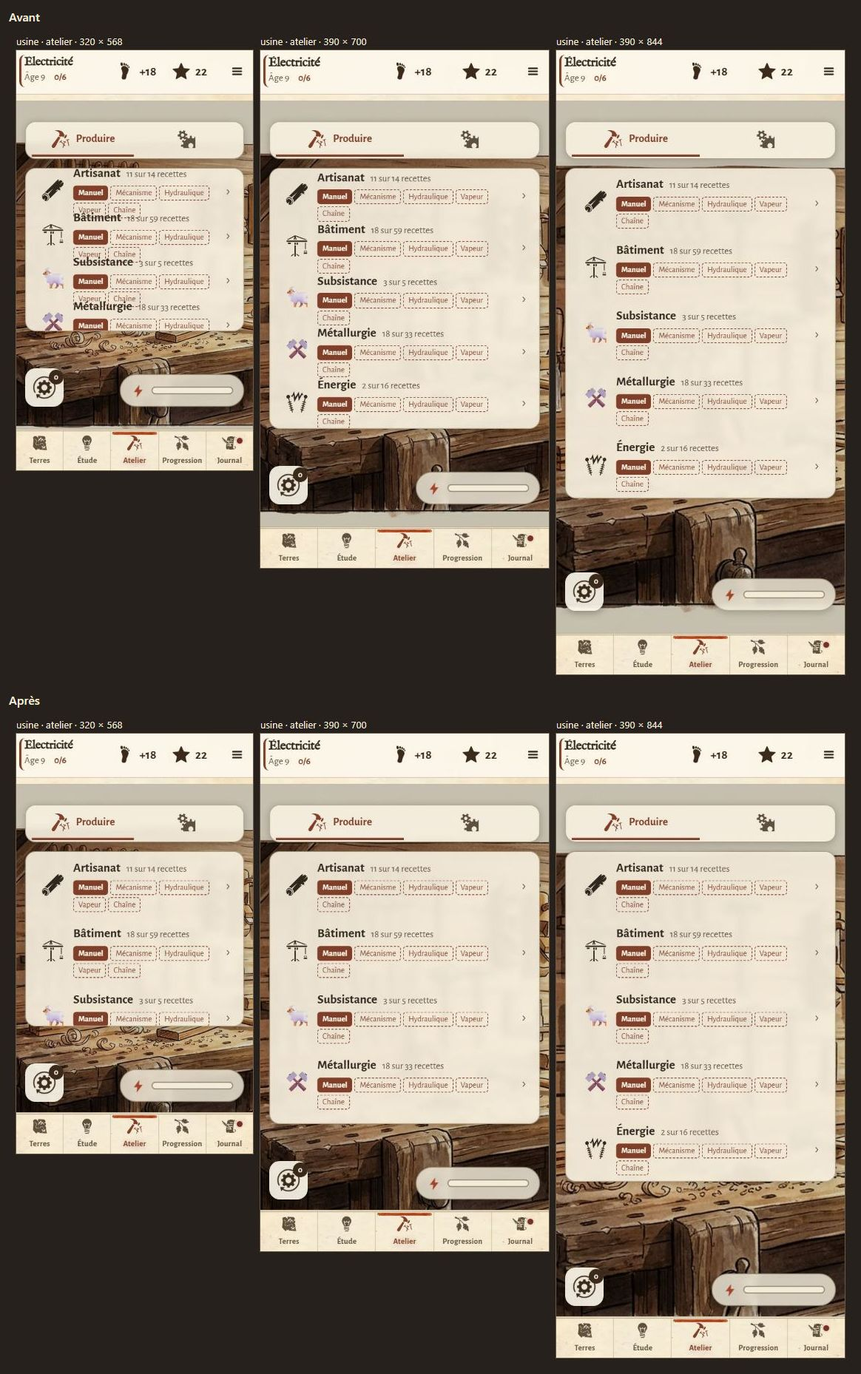
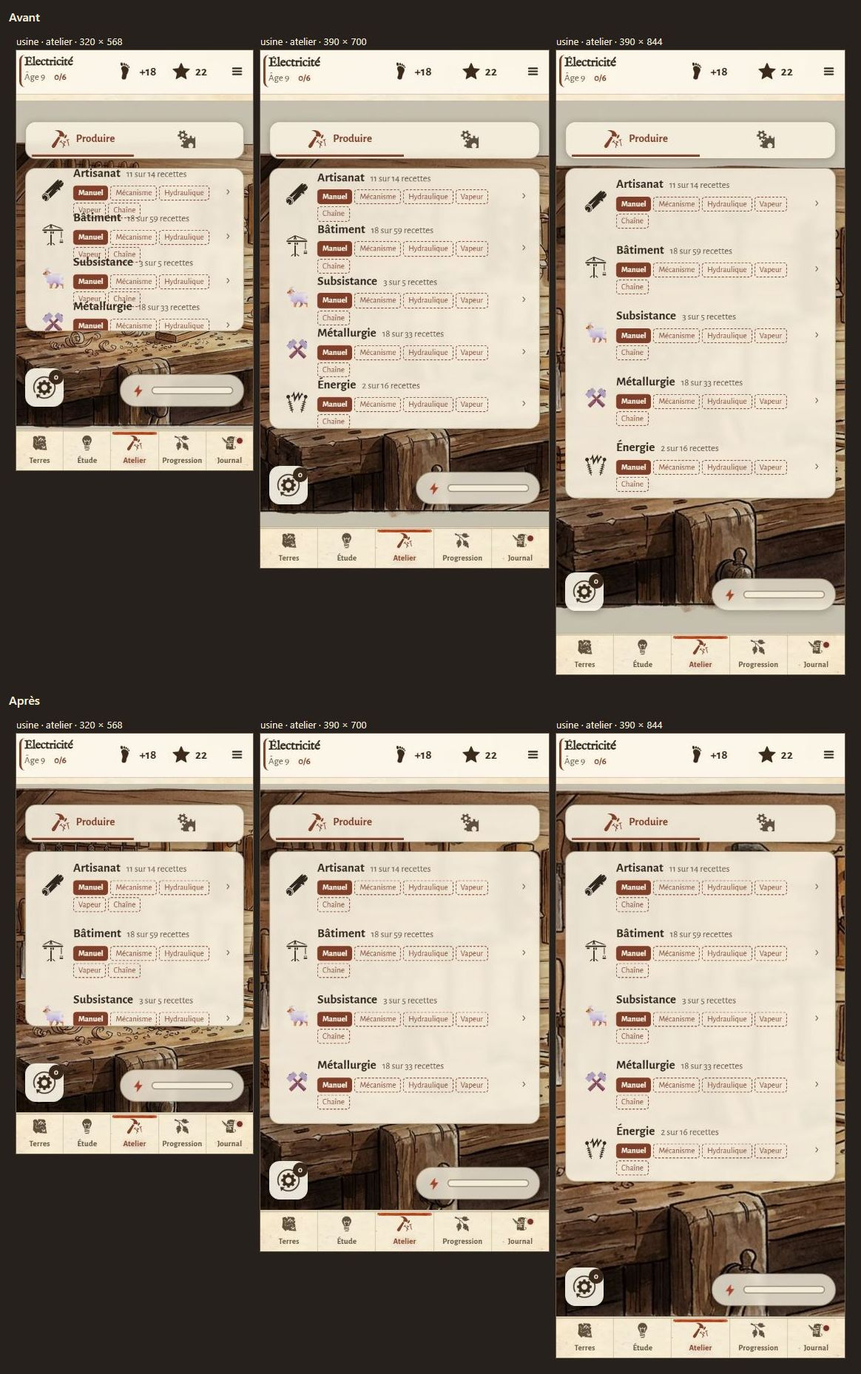
Intégration du chantier : test des écrans fixes, fond de l'Atelier recadré, compte rendu et rapport « Après correction »
- tools/test-ecrans-fixes-ui.js : 146 contrôles (métier, liste des métiers, Carnet, tenue du défilement, réserve basse).
- Fond de l'Atelier recadré sur téléphone (marge de papier de l'aquarelle), le médaillon s'efface sous 96 px.
- docs : rendu-integration.md, T6 mis à jour avec le tri des 16 tests rouges, section « Après correction » de l'audit.

Changed region(s): [[0.0, 0.5619, 0.9897, 0.9677], [0.9278, 0.9365, 0.9897, 0.9677], [0.4948, 0.8741, 0.5258, 0.9053]]

diff --git a/tools/test-ecrans-fixes-ui.js b/tools/test-ecrans-fixes-ui.js
@@ -1,0 +1,103 @@
+/* Écrans fixes, suite (0.67.0) : ce que l'intégration du chantier « un jeu, pas un site » a ajouté.
+ *  - page d'un métier : rien ne défile, l'objet choisi s'affiche en grand quand la place existe, une seule barre d'actions ;
+ *  - liste des métiers : le dernier métier s'atteint en faisant glisser la liste ;
+ *  - Carnet et Journal : la vue ne défile pas, la liste glisse ;
+ *  - un cadre qui glisse garde sa place après un rendu ;
+ *  - la réserve basse des vues est la hauteur réelle de la barre d'onglets.
+ * Playwright requis. PW et CHROMIUM facultatifs. */
+"use strict";
+const fs = require("fs"), path = require("path"), http = require("http"), assert = require("assert/strict");
+const { chromium } = require(process.env.PW || "playwright"), D = require("../js/data"), Core = require("../js/engine");
+const ROOT = path.resolve(__dirname, ".."), MIME = { ".html": "text/html", ".js": "text/javascript", ".css": "text/css", ".svg": "image/svg+xml", ".webp": "image/webp", ".woff2": "font/woff2" };
+const server = http.createServer((req, res) => {
+  const file = path.resolve(ROOT, "." + new URL(req.url, "http://localhost").pathname.replace(/\/$/, "/index.html"));
+  if (!file.startsWith(ROOT + path.sep)) return res.writeHead(403).end();
+  fs.readFile(file, (e, b) => { if (e) return res.writeHead(404).end(); res.setHeader("Content-Type", MIME[path.extname(file)] || "application/octet-stream"); res.end(b); });
+});
+let browser, checks = 0;
+const ok = (v, m) => { assert.ok(v, m); checks++; };
+const TAILLES = [[320, 568], [360, 640], [390, 700], [390, 844], [430, 932]];
+function partie(avancee) {
+  const E = Core.createEngine();
+  if (avancee) E.load(fs.readFileSync(path.join(ROOT, "tools/fixtures/save-v5-age8-usine.json"), "utf8"));
+  const s = E.state;
+  s.introSeen = true; s.flags.ver = D.VERSION; s.t = Date.now();
+  Object.assign(s.settings, { tuto: false, sound: false, visiteurs: false });
+  if (!avancee) {
+    s.age = 4; s.cycle = 2; s.meta.forcedDone = true; s.stats.crafts = 12;
+    for (const z of D.ZONES) { s.zones[z.id] = true; if (z.id === "desert") break; }
+    for (const [id, it] of Object.entries(D.ITEMS)) {
+      if (it.t === "res" && it.a <= 4) { s.seen[id] = true; s.inv[id] = 40; }
+      if (it.r && it.a <= 4 && !it.sec && !it.path) { s.known[id] = true; s.made[id] = 1; }
+    }
+  }
+  E.recalc(); return E.serialize();
+}
+const defile = () => {
+  const v = document.querySelector(".view.on"), vs = document.querySelector("#views");
+  return Math.max(v.scrollHeight - v.clientHeight, vs.scrollHeight - vs.clientHeight, document.scrollingElement.scrollHeight - innerHeight);
+};
+async function run() {
+  await new Promise(r => server.listen(0, "127.0.0.1", r));
+  browser = await chromium.launch(process.env.CHROMIUM ? { executablePath: process.env.CHROMIUM } : {});
+  const url = "http://127.0.0.1:" + server.address().port + "/index.html";
+  for (const avancee of [false, true]) for (const [w, h] of TAILLES) {
+    const ctx = await browser.newContext({ viewport: { width: w, height: h }, hasTouch: true, isMobile: true, serviceWorkers: "block", reducedMotion: "reduce" }), p = await ctx.newPage(), errors = [];
+    p.on("pageerror", e => errors.push(e.message));
+    await p.addInitScript(r => { localStorage.setItem("eclat.save.v1", r); localStorage.setItem("eclat.style.carnet-defaut", "1"); }, partie(avancee));
+    await p.goto(url); await p.waitForFunction(() => !!window.__eclat);
+    for (let i = 0; i < 6; i++) { await p.waitForTimeout(80); await p.evaluate(() => window.__eclat.closeModal()); }
+    const tag = w + "x" + h + (avancee ? " · partie avancée" : " · âge du Bronze") + " · ";
+    const onglet = async t => { await p.locator('#tabs [data-tab="' + t + '"]').click(); await p.waitForTimeout(450); };
+
+    // la réserve basse est la hauteur de la barre d'onglets
+    const nav = await p.evaluate(() => ({ nav: parseFloat(getComputedStyle(document.documentElement).getPropertyValue("--nav")), tabs: document.getElementById("tabs").getBoundingClientRect().height }));
+    ok(Math.abs(nav.nav - nav.tabs) <= 1, tag + "--nav (" + nav.nav + ") vaut la hauteur de la barre d'onglets (" + nav.tabs + ")");
+
+    // liste des métiers : tout s'atteint
+    await p.evaluate(() => { const g = window.__eclat; g.U.atelierSel = null; g.U.prodSel = null; });
+    await onglet("atelier");
+    ok(await p.evaluate(defile) <= 1, tag + "la liste des métiers ne fait pas défiler la vue");
+    const dernier = await p.evaluate(() => {
+      const l = document.querySelector("#v-atelier .atel-liste"), c = l.lastElementChild; l.scrollTop = l.scrollHeight;
+      const a = l.getBoundingClientRect(), b = c.getBoundingClientRect(); return b.bottom <= a.bottom + 1 && b.top >= a.top - 1;
+    });
+    ok(dernier, tag + "le dernier métier s'atteint");
+
+    // page d'un métier
+    await p.evaluate(() => { const g = window.__eclat; g.U.atelierSel = "artisanat"; g.U.prodSel = null; g.render(true); });
+    await p.waitForTimeout(350);
+    const m = await p.evaluate(() => {
+      const r = s => { const e = document.querySelector(s); if (!e) return null; const b = e.getBoundingClientRect(); return { haut: b.top, bas: b.bottom, h: getComputedStyle(e).display === "none" ? 0 : b.height, d: e.scrollHeight - e.clientHeight }; };
+      const qui = document.querySelector("#v-atelier .prod-qui");
+      return { milieu: r("#v-atelier .prod-milieu"), scene: r("#v-atelier .prod-scene > .ic"), qty: r("#v-atelier .prod-qty"), qui: r("#v-atelier .prod-qui"), tabs: r("#tabs"),
+        rangees: new Set([...qui.querySelectorAll("button")].map(b => Math.round(b.getBoundingClientRect().top / 30))).size,
+        petits: [...qui.querySelectorAll("button")].filter(b => { const x = b.getBoundingClientRect(); return x.width < 43.5 || x.height < 43.5; }).length,
+        raccourcis: qui.querySelectorAll(".prod-raccourcis > button").length };
+    });
+    ok(await p.evaluate(defile) <= 1, tag + "la page d'un métier ne fait pas défiler la vue");
+    ok(m.milieu.d <= 1, tag + "le milieu de la page d'un métier ne défile pas (" + m.milieu.d + " px)");
+    ok(m.qty.bas <= m.qui.haut + 1, tag + "les quantités sont au-dessus de la barre d'actions");
+    ok(m.qui.bas <= m.tabs.haut + 1, tag + "la barre d'actions est au-dessus des onglets");
+    ok(m.rangees === 1, tag + "la barre d'actions tient sur une rangée");
+    ok(m.petits === 0, tag + "les cibles de la barre d'actions font 44 px");
+    ok(m.raccourcis === 3, tag + "les trois feuilles du métier sont dans la barre d'actions");
+    if (h >= 844) ok(m.scene && m.scene.h >= 96, tag + "l'objet choisi s'affiche en grand");
+    if (h <= 568) ok(!m.scene || m.scene.h === 0, tag + "l'objet en grand s'efface quand la place manque");
+
+    // un cadre qui glisse garde sa place après un rendu
+    const garde = await p.evaluate(() => { const c = document.querySelector("#v-atelier .prod-choix"); c.scrollLeft = 120; const avant = c.scrollLeft; window.__eclat.render(true); return [avant, document.querySelector("#v-atelier .prod-choix").scrollLeft]; });
+    ok(garde[0] === 0 || Math.abs(garde[0] - garde[1]) <= 1, tag + "la rangée des recettes garde sa place après un rendu (" + garde.join(" → ") + ")");
+
+    // Carnet ou Journal : la vue ne défile pas, la liste glisse
+    await onglet("journal");
+    ok(await p.evaluate(defile) <= 1, tag + "le Carnet ne fait pas défiler la vue");
+    const liste = await p.evaluate(() => { const l = document.querySelector("#v-carnet.on #clist, #v-journal.on .journal-corps"); return l ? getComputedStyle(l).overflowY : ""; });
+    ok(liste === "auto", tag + "la liste du Carnet glisse dans son cadre");
+
+    ok(!errors.length, tag + "erreurs JS " + errors.join(";"));
+    await ctx.close();
+  }
+  console.log(checks + " contrôles des écrans fixes (métier, Carnet, listes) réussis.");
+}
+run().catch(e => { console.error(e); process.exitCode = 1; }).finally(async () => { if (browser) await browser.close(); server.close(); });

diff --git a/css/sobriete.css b/css/sobriete.css
@@ -251,7 +251,9 @@ html[data-style-mode="vivant"] #app #v-domaine .terres .terre-nav:disabled{opaci
 #v-labo .ae-metiers{background:rgb(244 236 218 / .86);border-radius:14px;margin:6px 0;padding:2px 6px;-webkit-backdrop-filter:blur(3px);backdrop-filter:blur(3px)}
 
 /* Atelier : même établi que le Labo ; Progression : le ciel de la Mémoire. Les blocs se posent dessus en papier translucide. */
-#v-atelier.view{background:linear-gradient(rgba(20,14,8,.18),rgba(20,14,8,.18)),url("../assets/fonds/atelier.webp") center top/auto 106% no-repeat!important}
+#v-atelier.view{background:linear-gradient(rgba(20,14,8,.18),rgba(20,14,8,.18)),url("../assets/fonds/atelier.webp") var(--fond-pos,center)/var(--fond-taille,cover) no-repeat!important}
+/* téléphone : l'aquarelle a une marge de papier en haut et en bas, on la recadre */
+@media (max-width:680px){#v-atelier.view{--fond-pos:50% 62%;--fond-taille:auto 120%}}
 #v-arbre.view{background:linear-gradient(rgba(8,12,24,.12),rgba(8,12,24,.12)),url("../assets/fonds/progression.webp") center/cover no-repeat!important}
 #v-atelier .atl-page,#v-arbre .arb-page,#v-arbre .prog-corps{background:transparent!important}
 #v-atelier .atl-page>:not(.hidden),#v-arbre .prog-corps>:not(.hidden){background:rgb(244 236 218 / .86);border-radius:14px;-webkit-backdrop-filter:blur(3px);backdrop-filter:blur(3px)}
@@ -273,12 +275,12 @@ html[data-style-mode="vivant"] #app #v-domaine .terres .terre-nav:disabled{opaci
 #v-atelier .prod-qui > button[data-prod="apprenti"] { flex: 0 0 48px; }
 @media (max-width: 340px) { #v-atelier .prod-qui > button[data-prod="main"] > .gi { display: none; } #v-atelier .prod-qui > button[data-prod="apprenti"] { flex-basis: 44px; } }
 /* l'objet choisi, en grand, posé sur l'établi : il prend la place qui reste et s'efface quand elle manque */
-#v-atelier .atl-metier-page > .prod-milieu { display: flex; flex-direction: column; container-type: size; padding-inline: 0; background: none; -webkit-backdrop-filter: none; backdrop-filter: none; }
+#v-atelier .atl-metier-page > .prod-milieu { display: flex; flex-direction: column; padding-inline: 0; background: none; -webkit-backdrop-filter: none; backdrop-filter: none; }
 #v-atelier .prod-milieu > .prod-fiche { margin-top: auto; }
 #v-atelier .prod-scene { flex: 1 1 0; min-height: 0; display: grid; place-items: center; overflow: hidden; container-type: size; }
 #v-atelier .prod-scene > .ic { position: relative; width: min(100cqh - 20px, 176px); height: min(100cqh - 20px, 176px); padding: 0; border-radius: 50%; background: var(--rond-papier, #f4ecda) center / 100% 100% no-repeat; filter: drop-shadow(0 8px 9px rgb(20 14 8 / .55)); }
 #v-atelier .prod-scene > .ic > :is(img, svg) { position: absolute; inset: 14%; width: 72%; height: 72%; object-fit: contain; }
-@container (max-height: 263px) { #v-atelier .prod-scene { display: none; } }
+@container (max-height: 95px) { #v-atelier .prod-scene > .ic { display: none; } }
 #v-atelier .prod-scene.frappe > .ic { animation: prod-frappe .32s cubic-bezier(.2,.9,.3,1.3); }
 @keyframes prod-frappe { 0% { transform: scale(.8) rotate(-5deg); } 60% { transform: scale(1.08) rotate(1deg); } }
 @media (prefers-reduced-motion: reduce) { #v-atelier .prod-scene.frappe > .ic { animation: none; } }

diff --git a/sw.js b/sw.js
@@ -3,7 +3,7 @@
  * arrière-plan puis attend que le joueur l’accepte (bandeau dans le jeu), ce qui
  * lui laisse le temps de télécharger sa sauvegarde.
  * BUILD est recalculé par `node tools/build.js` : ne pas le modifier à la main. */
-const BUILD = "d9bec516f6";
+const BUILD = "325831c020";
 const CACHE = "eclat-" + BUILD;
 const LEGACY = "eclat-v1"; // première version : « réseau d’abord », sans attente
 const FILES = [

diff --git a/docs/chantier-interface/T6-tests.md b/docs/chantier-interface/T6-tests.md
@@ -3,21 +3,26 @@
 Lis d'abord `docs/chantier-interface/MAITRE.md` : il porte le but, les règles communes et la forme du compte rendu. Réponds en français.
 
 ## Pourquoi
-`npm test` ne lance aucun test de navigateur. Il existe 32 fichiers `tools/test-*-ui.js`, lancés à la main un par un, et cinq sont rouges depuis avant ce chantier. Tant qu'ils le sont, personne ne sait si un changement casse quelque chose.
+`npm test` ne lance aucun test de navigateur. Seize des trente-six tests d'interface sont rouges depuis avant ce chantier. Tant qu'ils le sont, personne ne sait si un changement casse quelque chose.
 
-## Faits vérifiés (11 novembre 2026)
-- Rouges : `test-decouvertes-carnet-ui` (« 320 première planche révélée »), `test-age-os-carnet-ui` et `test-illustrations-raccord-ui` (délai dépassé sur `scrollIntoViewIfNeeded`), `test-paysages-carnet-ui` (« 320/false/lisiere vignette présente »), `test-monde-production-ui` (« monde intégré »).
-- Verts : `test-ux`, `test-terres-fixe-ui`, `test-territoires-ui`, `test-sentier-chantier-ui`, `test-carnet-mobile-ui`, `test-atlas-ui`, `test-friction-ui`, `test-juice-ui`.
-- Les autres n'ont pas été lancés ce jour-là.
-- Piste : sur téléphone, les scènes de chantier (`.sentier-chantier`, `.passerelle-chantier`) et le paysage du carnet sont masqués exprès depuis la refonte sobre. Un test qui attend de les voir à 320 px est sans doute périmé.
+## Faits vérifiés (12 novembre 2026, version 0.67.0)
+- `npm run test:ui` existe (`tools/test-ui.js`) : il lance les 36 tests de navigateur l'un après l'autre, continue après un échec et finit par un tableau. `npm run test:ui -- carnet fiches` n'en lance qu'une partie. `PW=<chemin>/node_modules/playwright` sert aussi aux tests qui écrivent `require("playwright")`.
+- 20 verts, 16 rouges. Les rouges l'étaient déjà avant le chantier : aucun ne vient des tâches T1 à T5 ni de l'intégration.
+- Les 16 rouges, avec leur première erreur :
+  - `test-appareil-ui` : « la touche 2 ouvre la Carte » (les raccourcis d'onglets ont changé).
+  - `test-archives-ui`, et sans doute `test-assistance-ui`, `test-comptes-ui`, `test-filtre-decouverte-ui`, `test-mode-test-ui` : délai dépassé sur un clic de `#atlasToggle`, le bouton d'aspect qui n'est plus visible.
+  - `test-age-os-carnet-ui`, `test-atelier-dessine-ui`, `test-illustrations-raccord-ui` : délai dépassé (une image chargée à la demande hors de la zone visible, ou `scrollIntoViewIfNeeded`).
+  - `test-decouvertes-carnet-ui` : « 320 première planche révélée ». `test-paysages-carnet-ui` : « 320/false/lisiere vignette présente ». `test-retours-ui` : « 320/false : décor au bord supérieur ». `test-monde-production-ui` : « monde intégré ».
+  - `test-progression-ui` : à lire. `test-stockage-ui` : « deux pages : la seconde attend, n'écrit rien », 187 s.
+  - `test-browser-qol` : ne trouvait pas Playwright ; à relancer avec la nouvelle commande.
+- Piste : sur téléphone, les scènes de chantier (`.sentier-chantier`, `.passerelle-chantier`) et le paysage du carnet sont masqués exprès depuis la refonte sobre, et le style Atlas n'a plus de bouton. Un test qui les attend est sans doute périmé.
 
 ## À faire
-1. Lance les 32 fichiers et dresse le tableau : vert ou rouge, et la cause en une ligne.
-2. Pour chaque rouge, tranche : le test est périmé (l'interface a changé exprès) ou le jeu a un défaut. Appuie-toi sur le `git log` du fichier testé.
-3. Test périmé : mets-le à jour pour qu'il vérifie le comportement d'aujourd'hui, sans le vider de son sens. Défaut du jeu : ne corrige rien, décris-le avec les pas pour le revoir.
-4. Ajoute `npm run test:ui`, qui lance tous les tests d'interface l'un après l'autre, continue après un échec et finit par un tableau, avec un code de sortie non nul s'il reste un rouge.
-5. Ne touche à aucun fichier du jeu (`js/`, `css/`, `index.html`).
+1. Pour chaque rouge, tranche : le test est périmé (l'interface a changé exprès) ou le jeu a un défaut. Appuie-toi sur le `git log` du fichier testé.
+2. Test périmé : mets-le à jour pour qu'il vérifie le comportement d'aujourd'hui, sans le vider de son sens. S'il ne vérifie plus rien qui existe, propose sa suppression dans ton compte rendu, ne le supprime pas.
+3. Défaut du jeu : ne corrige rien, décris-le avec les pas pour le revoir.
+4. Ne touche à aucun fichier du jeu (`js/`, `css/`, `index.html`) ni à `tools/test-ui.js`.
 
 ## Fini quand
-- `npm run test:ui` existe et son tableau est dans ton compte rendu.
+- Le tableau de `npm run test:ui` est dans ton compte rendu.
 - Chaque test encore rouge l'est pour un défaut du jeu, décrit.

diff --git a/docs/chantier-interface/rendu-integration.md b/docs/chantier-interface/rendu-integration.md
@@ -1,0 +1,55 @@
+# Intégration · recette de T1 à T5, corrections, version 0.67.0
+
+**État** : fait. Branche `chantier/integration-0-67`, fusionnée dans `claude/sobriete-coherence`. Rien n'est parti sur `alpha` ni sur `main`.
+
+## Recette des cinq tâches
+
+Les cinq branches étaient déjà fusionnées. `npm test` vert, aucun défilement de page sur les Terres, l'Étude, l'Atelier et les fiches aux cinq tailles : les comptes rendus disent vrai. Les compteurs de `!important` n'ont pas monté (107 et 148). Un écart au périmètre : T4 a rangé ses règles dans `css/sobriete.css` et pas dans `css/labo.css`, sans dégât.
+
+Ce que les captures ont montré, et qui est corrigé ici :
+
+| Défaut | Cause | Correction |
+|---|---|---|
+| Bande grise au-dessus des onglets, feuilles qui s'arrêtent 16 px trop haut | `--nav` valait 72 px pour une barre de 56 px | `--nav` suit la barre : 16 px rendus à chaque vue |
+| Fiche presque vide à 320 × 568 (150 px pour le contenu) | épingles sur leur propre ligne, pied sur trois rangées | épingles dans la rangée des pages, pied sur une ligne, un seul bouton principal |
+| Page d'un métier creuse sur grand téléphone, rangée de raccourcis flottante | le milieu prenait la place sans rien y mettre | l'objet choisi en médaillon, une seule barre d'actions |
+| Quantités cachées à 320 × 568 sur la page d'un métier | milieu de 97 px pour une fiche de 162 px | la rangée de raccourcis rend sa place : plus de défilement |
+| Derniers métiers coupés et inatteignables en partie avancée | `.atel-liste` en `overflow: hidden` | la liste glisse dans son cadre |
+| Une liste revenait en haut après chaque appui | la vue est redessinée en entier | les cadres qui glissent gardent leur place (`js/ui.js`) |
+| Carnet et Journal défilaient en entier (888 px à 320 × 568) | aucune tâche ne les couvrait | onglets, recherche et âges fixes, la liste glisse |
+| Terres à 320 px : l'extracteur passait sous l'icône du gisement | ligne trop large de 2 px | la ligne tient sur une rangée |
+| « Fermer » en mot sur deux feuilles, en croix sur les deux autres | | la croix partout |
+
+## Ce qui change pour le joueur
+
+Plus aucune vue ne défile : chaque écran est un cadre fixe, avec ses actions en bas. À l'Atelier, l'objet à fabriquer est posé en grand sur l'établi et il réagit quand on appuie sur Fabriquer.
+
+## Mesures (défilement de la page, puis de la zone du milieu)
+
+| Écran | 320 × 568 | 360 × 640 | 390 × 700 | 390 × 844 | 430 × 932 |
+|---|---|---|---|---|---|
+| Page d'un métier, avant | 0, milieu 76 | 0, milieu 8 | 0, 0 | 0, 0 | 0, 0 |
+| Page d'un métier, après | 0, 0 | 0, 0 | 0, 0 | 0, 0 | 0, 0 |
+| Carnet, avant | 888 | | 701 | 557 | |
+| Carnet, après | 0 | 0 | 0 | 0 | 0 |
+| Fiche du Manche, page Objet, avant | 321 | | 43 | 0 | |
+| Fiche du Manche, page Objet, après | 167 | | 0 | 0 | |
+
+## Tests
+
+- `npm test` : vert en 0.67.0.
+- `node tools/test-ecrans-fixes-ui.js` (nouveau) : « 146 contrôles des écrans fixes (métier, Carnet, listes) réussis. » Lancé sur la branche d'avant, il échoue dès le premier contrôle.
+- `npm run test:ui` (nouveau, tous les tests de navigateur) : 20 verts et 16 rouges sur 36. Les 16 rouges sont les mêmes qu'avant l'intégration, lancés sur une copie de la branche de départ : ce sont des tests qui décrivent une interface plus ancienne (liste et première erreur dans `T6-tests.md`). `test-fiches-ui` : « 1142 contrôles », `test-terres-fixe-ui` : « 264 contrôles », `test-etude-fixe-ui` : « 124 contrôles », `test-ux` : « 66 contrôles ».
+- Essai sur un vrai téléphone : non fait.
+
+## Ce que je n'ai pas vérifié
+
+Le toucher réel, Safari, les encoches, le clavier virtuel, Grand texte et le thème sombre. Sur grand écran, seules la page d'un métier et le Journal ont été regardés.
+
+## Choix qui reviennent au porteur
+
+- **Le médaillon de l'objet** sur la page d'un métier : `captures/integration/usine-metier.jpg`. Il s'efface quand il reste moins de 96 px de haut.
+- **Le pied de fiche en icônes** sur téléphone (Carnet et Progression sans leur mot, le nom reste pour les lecteurs d'écran) : `captures/integration/usine-fiche-manche.jpg`.
+- **Les icônes des gisements** passent de 54 à 46 px pour rester dans leur ligne.
+- **Le bouton « Machines »** de la barre d'actions est retiré : il existe déjà dans la plaque du métier, en haut.
+- **Le fond de l'Atelier** est recadré sur téléphone pour cacher la marge de papier de l'aquarelle.

diff --git a/docs/AUDIT-INTERFACE-2026-11-11.md b/docs/AUDIT-INTERFACE-2026-11-11.md
@@ -45,6 +45,39 @@ Relevé du 11 novembre 2026 sur la version 0.66.4 (branche `claude/sobriete-cohe
 **C. Cosmétique**
 - Cibles de 38 à 42 px (`ing.link` 50 × 38, retour 44 × 40), `overscroll-behavior` sur les défilements isolés, la scène du Sentier à 1280 px.
 
+## Après correction (12 novembre 2026, version 0.67.0)
+
+Le chantier « un jeu, pas un site » (`docs/chantier-interface/`) a repris les écrans un par un. La règle tenue : aucune vue ne défile, seules les listes glissent dans un cadre qui ne bouge pas.
+
+Défilement de la page, en pixels, avant puis après :
+
+| Écran | 320 × 568 | 390 × 700 | 390 × 844 |
+|---|---|---|---|
+| Terres | 70 → 0 | 0 → 0 | 0 → 0 |
+| Étude (âges 1, 5 et 9) | 113 à 263 → 0 | 0 à 72 → 0 | 0 → 0 |
+| Page d'un métier | 186 → 0 | 58 → 0 | 0 → 0 |
+| Carnet | 888 → 0 | 701 → 0 | 557 → 0 |
+| Fenêtre d'une fiche (Bois, puis Manche) | 472 et 1801 → 0 | 195 et 1136 → 0 | 68 et 1009 → 0 |
+
+Sources : les comptes rendus `rendu-T1.md`, `rendu-T4.md` et `rendu-T5.md`, puis les mesures de l'intégration (`rendu-integration.md`). Quatre tests gardent ces zéros : `test-ux.js`, `test-terres-fixe-ui.js`, `test-etude-fixe-ui.js` et `test-ecrans-fixes-ui.js`.
+
+### Ce qui glisse encore, dans son cadre
+
+- La page Objet d'une fiche longue : 349 px pour la Cabane de bûcheron à 320 × 568, 130 px à 390 × 700.
+- La liste « Sert à fabriquer » d'une fiche, la liste des recettes du Carnet, la liste des métiers en partie avancée.
+- Le milieu des Terres dans un état rare (une carte de gisement à poser), et l'arbre de la Progression, qui est une carte.
+
+### Deux diagnostics du premier rapport étaient faux
+
+- **Le vide des Terres.** Le détecteur comparait un bloc à son voisin dans le document, pas à celui qui le précède à l'écran : il a compté 333 px de contenu comme du vide. La vraie cause était la plaque du nom fixée en bas et une grille aux hauteurs figées.
+- **La feuille du bas comme réponse aux fiches.** Le défilement venait de la hauteur du contenu sous un plafond de 88 % de l'écran. La réponse retenue est un panneau fixe à deux pages, Objet et Usages.
+
+### Ce qui n'est pas fait
+
+- Le détecteur de `tools/audit-interface.js` garde ses quatre défauts (tâche T7) : le tableau complet plus bas date d'avant les corrections et n'a pas été rejoué.
+- Seize tests d'interface sur trente-six sont rouges parce qu'ils décrivent une interface plus ancienne (tâche T6, tableau dans `rendu-integration.md`).
+- Rien n'a été essayé sur un vrai téléphone.
+
 ## Ce que le script ne mesure pas
 
 - La sensation au doigt : inertie, rebond, accroche entre deux défilements, vitesse. Le porteur teste sur son téléphone et complétera.

diff --git a/docs/chantier-interface/MAITRE.md b/docs/chantier-interface/MAITRE.md
@@ -42,10 +42,11 @@ Coche ta ligne dans ta branche, et seulement elle, quand ton compte rendu est é
 | [x] | T3 · Réflexes de navigateur et transitions | `T3-reflexes.md` | `css/style.css` (règles de `html`, `body`, `#views`, `.view`), `js/ui.js` (changement d'onglet), `tools/test-reflexes-ui.js` (nouveau) | |
 | [x] | T4 · Étude en écran fixe | `T4-etude.md` | `js/atelier-equipe.js`, `css/labo.css`, `css/atelier-equipe.css`, `tools/test-etude-fixe-ui.js` (nouveau) | |
 | [x] | T5 · Atelier : page d'un métier en écran fixe | `T5-metier.md` | `js/atelier.js` (page d'un métier, feuilles), `css/atelier-production.css`, `css/refonte-0-39.css`, `css/sobriete.css` (Atelier) | T1 fusionnée |
-| [ ] | T6 · Tests d'interface rouges, commande unique | `T6-tests.md` | `tools/test-*-ui.js`, `package.json` | |
-| [ ] | T7 · Audit : détecteur et rapport | `T7-audit.md` | `tools/audit-interface.js`, `docs/AUDIT-INTERFACE-2026-11-11.md`, `docs/audit-interface/` | les autres fusionnées |
+| [ ] | T6 · Tests d'interface rouges (la commande `npm run test:ui` est faite, reste le tri des rouges) | `T6-tests.md` | `tools/test-*-ui.js` | |
+| [ ] | T7 · Audit : détecteur et relevé (la section « Après correction » du rapport est écrite) | `T7-audit.md` | `tools/audit-interface.js`, `docs/audit-interface/` | les autres fusionnées |
+| [x] | Intégration 0.67.0 (Claude) : recette de T1 à T5, corrections, Carnet et Journal en cadre fixe | `rendu-integration.md` | | |
 
-T1 à T4 et T6 peuvent tourner en même temps. T5 partage `js/atelier.js` avec T1 : elle attend. T7 passe en dernier.
+T1 à T5 sont fusionnées et recettées (12 novembre 2026). Il reste T6 et T7, qui ne touchent qu'aux outils et peuvent tourner en même temps.
 
 ## Ton compte rendu
 
